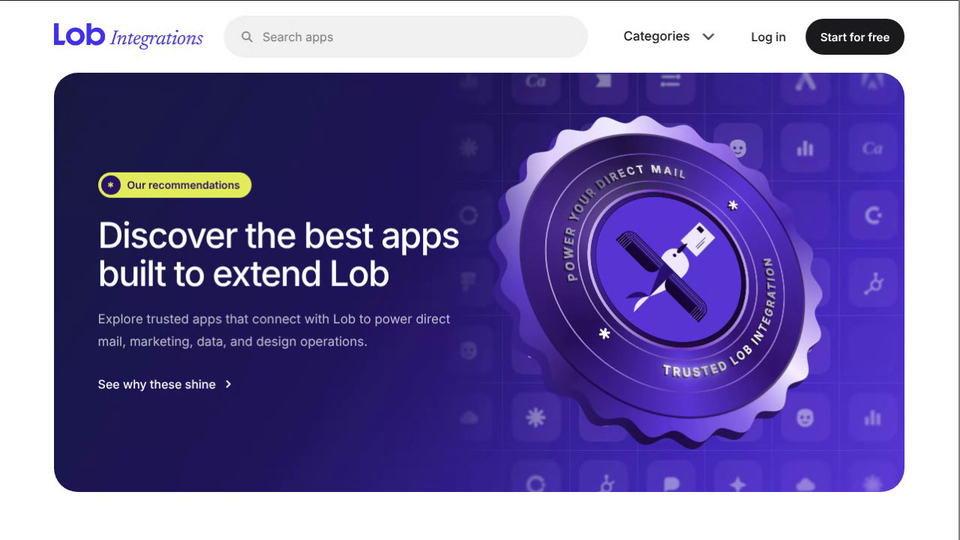
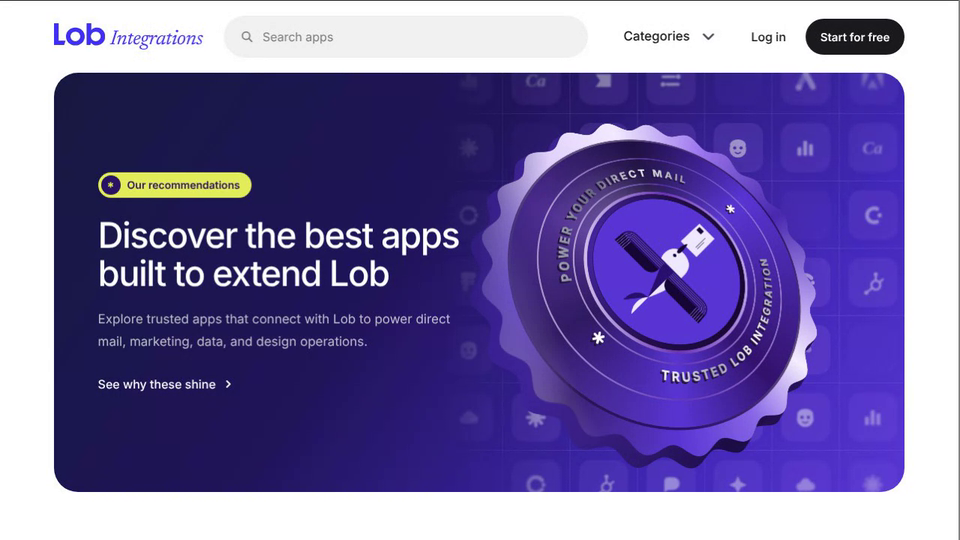
Lob Integrations Hero: single-layer badge with smooth rim, remove the bloom
Claude-Session: https://claude.ai/code/session_01AHeBdw5Dmhovddhvfinq8X

Changed region(s): [[0.5, 0.2074, 0.875, 0.8889]]

diff --git a/lob-integrations-hero/index.html b/lob-integrations-hero/index.html
@@ -97,8 +97,8 @@ body[data-look="colour"] .tile .c{display:block}
 .bshadow{width:min(72cqw,80cqh,460px);aspect-ratio:1;border-radius:50%;transform:translateY(9%) scale(.92);background:radial-gradient(circle,rgba(10,0,40,.55),transparent 68%);filter:blur(10px)}
 .ext{position:absolute;inset:0;clip-path:url(#serr);background:linear-gradient(160deg,#5a37d4,#1d0e45 60%,#3a1c7a)}
 .side{position:absolute;inset:0}
-/* no 3D scene: every layer is a flat element carrying the same tilt (--pr), shifted a little along the tilt by its depth (--z), which gives the thickness and the raised look without the browser sorting 3D planes */
-.badge .ext,.badge .face,.badge .side>svg{transform:translate(calc(var(--sx,0)*var(--z,0)*1px),calc(var(--sy,0)*var(--z,0)*1px)) var(--pr,none)}
+/* one flat element carries the whole tilt; thickness and raised lettering are copies of the artwork shifted by their depth (--z) along the tilt inside it, so the browser only ever composites a single layer */
+.badge .side>svg,.rm{transform:translate(calc(var(--lx,0)*var(--z,0)*1px),calc(var(--ly,0)*var(--z,0)*1px))}
 .face{position:absolute;inset:0;clip-path:url(#serr);overflow:hidden;background:#2a1466}
 /* the gradients are painted once and only moved with transforms, so nothing is re-rasterised while the badge turns */
 .sheen{position:absolute;inset:-21%;transform:rotate(var(--a,30deg));
@@ -112,15 +112,12 @@ body[data-look="colour"] .tile .c{display:block}
 @keyframes sweep{0%,35%{transform:translateX(-83.6%)}80%,100%{transform:translateX(25.7%)}}
 .badge svg{position:absolute;inset:0;width:100%;height:100%;overflow:visible}
 /* the extrusion layers of the raised lettering and link are one flat dark colour, the top layer carries the metal */
-.spark{pointer-events:none;animation:tw 3s ease-in-out infinite}
-.spark.b{animation-delay:-1.5s}
-@keyframes tw{0%,100%{opacity:.3}50%{opacity:1}}
 .gl .as path{stroke:var(--side)!important}
 .gl text,.gl circle{fill:var(--side)!important;stroke:none!important}
 .gl .lk path{stroke:var(--side)!important;stroke-opacity:1!important}
 
 
-@media (prefers-reduced-motion:reduce){.spark{animation:none;opacity:.9}.sweep{animation:none;transform:translateX(-30%);opacity:.6}.slot,.tile{transition:none}}
+@media (prefers-reduced-motion:reduce){.sweep{animation:none;transform:translateX(-30%);opacity:.6}.slot,.tile{transition:none}}
 </style>
 </head>
 <body>
@@ -308,15 +305,11 @@ function stack(inner,n,z0,dz,front){
    '<linearGradient id="rim" x1="0" y1="0" x2="1" y2="1"><stop offset="0" stop-color="#faf5ff"/><stop offset=".5" stop-color="#6a35b8"/><stop offset="1" stop-color="#e2d0ff"/></linearGradient></defs>'+
    '<circle cx="200" cy="200" r="141" fill="none" stroke="url(#rim)" stroke-width="1.6" opacity=".8"/><circle cx="200" cy="200" r="106" fill="none" stroke="url(#rim)" stroke-width="1.6" opacity=".8"/>'+
    '<circle cx="200" cy="200" r="94" fill="url(#plate)" stroke="url(#rim)" stroke-width="3.4"/><circle cx="200" cy="200" r="86" fill="none" stroke="#000" stroke-opacity=".35" stroke-width="1.5"/><circle cx="200" cy="200" r="86" fill="#5a37d4"/><g fill="#150836" transform="translate(200 200) scale(.235) translate(-558 -453.5)"><path d="M360 478H555V523C500 523 440 512 360 478Z" fill="#efe9ff"/><path d="M555 392C585 380 640 380 662 420C674 452 660 490 640 506C615 524 585 523 555 523Z" fill="#efe9ff"/><path d="M245 478C275 452 330 448 360 478Z" fill="#efe9ff"/><path d="M265 410C310 405 350 428 357 458L360 476Z" fill="#2a1170"/><path d="M360 478 555 405V478Z" fill="#2a1170"/><path d="M448 187H503V421C468 421 448 400 448 372Z"/><path d="M503 187A52 52 0 0 1 555 239V421H503Z" fill="#2a1170"/><path d="M448 720H503V478C468 478 448 500 448 528Z"/><path d="M503 720A52 52 0 0 0 555 668V478H503Z" fill="#2a1170"/><g fill="none" stroke="#9a80f2" stroke-width="2.2"><path d="M503 197A42 42 0 0 1 545 239V421M503 207A32 32 0 0 1 535 239V421M503 217A22 22 0 0 1 525 239V421M503 227A12 12 0 0 1 515 239V421"/><path d="M503 710A42 42 0 0 0 545 668V478M503 700A32 32 0 0 0 535 668V478M503 690A22 22 0 0 0 525 668V478M503 680A12 12 0 0 0 515 668V478"/><path d="M448 198H503M448 208H503M448 219H503M448 230H503M448 241H503M448 666H503M448 677H503M448 688H503M448 699H503M448 710H503"/></g><g transform="translate(705 450.5) scale(.84) translate(-705 -450.5)"><rect x="705" y="387" width="190" height="127" fill="#efe9ff"/><rect x="750" y="471" width="98" height="3"/><rect x="750" y="483" width="70" height="3"/><rect x="845" y="402" width="32" height="37"/></g><circle cx="621" cy="426" r="9"/><path d="M643 427.500C643 419.500 655 416.500 672 416.500C692 417 711 421.500 722 430C707 433.500 690 436 672 436.500C655 437 643 435.500 643 427.500Z"/></g></svg>';
-  /* soft bloom: blurred copies of the outer words (MAIL, TRUSTED), faded in over a small area and breathing slowly */
-  var bt='font-family="Inter,Arial,sans-serif" font-weight="700" font-size="13" letter-spacing="2.8" fill="#f4edff" text-anchor="middle"';
-  function bloom(id,x,y,href,off,delay){
-    return '<mask id="'+id+'m" maskUnits="userSpaceOnUse" x="0" y="0" width="400" height="400"><circle cx="'+x+'" cy="'+y+'" r="62" fill="url(#bg)"/></mask>'+
-      '<g mask="url(#'+id+'m)"><g filter="url(#bw)" opacity=".95"><text '+bt+'><textPath href="#'+href+'" startOffset="'+off+'">'+(href==='pTop'?'POWER YOUR DIRECT MAIL':'TRUSTED LOB INTEGRATION')+'</textPath></text></g><g filter="url(#bn)" opacity=".9"><text '+bt+'><textPath href="#'+href+'" startOffset="'+off+'">'+(href==='pTop'?'POWER YOUR DIRECT MAIL':'TRUSTED LOB INTEGRATION')+'</textPath></text></g></g>';
-  }
-  var spark='<svg class="spark" viewBox="0 0 400 400" style="--z:9.6" aria-hidden="true"><defs><radialGradient id="bg"><stop offset="0" stop-color="#fff"/><stop offset=".55" stop-color="#fff" stop-opacity=".8"/><stop offset="1" stop-color="#fff" stop-opacity="0"/></radialGradient><filter id="bw" x="-20%" y="-20%" width="140%" height="140%"><feGaussianBlur stdDeviation="8.5"/></filter><filter id="bn" x="-20%" y="-20%" width="140%" height="140%"><feGaussianBlur stdDeviation="2.6"/></filter></defs>'+bloom('ba',289,129,'pTop','25%',0)+'</svg>'+'<svg class="spark b" viewBox="0 0 400 400" style="--z:9.7" aria-hidden="true">'+bloom('bb',112,290,'pCcw','50%',-1.5)+'</svg>';
-  var side='<div class="side"><div class="face"><div class="sheen"></div><div class="disc"><div class="sheen2"></div></div><div class="gloss"></div><div class="sweep"></div></div>'+art+stack(raised,8,3,.7,{vb:'0 0 400 400',defs:defs})+spark+'</div>';
-  var ext='';for(var i=1;i<=12;i++)ext+='<i class="ext" style="--z:-'+(i*2)+'"></i>';
+  var side='<div class="side"><div class="face"><div class="sheen"></div><div class="disc"><div class="sheen2"></div></div><div class="gloss"></div><div class="sweep"></div></div>'+art+stack(raised,18,3,.3,{vb:'0 0 400 400',defs:defs})+'</div>';
+  var rd='';for(var q=0;q<360;q++){var tt=q/360*Math.PI*2,rr=(.468+.014*Math.cos(tt*22))*400;rd+=(q?'L':'M')+(200+rr*Math.cos(tt)).toFixed(1)+' '+(200+rr*Math.sin(tt)).toFixed(1)}rd+='Z';
+  var ext='<svg class="rim" viewBox="0 0 400 400" aria-hidden="true"><defs><linearGradient id="rg" x1="0" y1="0" x2="1" y2="1"><stop offset="0" stop-color="#5a37d4"/><stop offset=".6" stop-color="#1d0e45"/><stop offset="1" stop-color="#3a1c7a"/></linearGradient><path id="rimP" d="'+rd+'" fill="url(#rg)"/></defs>';
+  for(var i=50;i>=1;i--)ext+='<use class="rm" href="#rimP" style="--z:-'+(i*.4).toFixed(1)+'"/>';
+  ext+='</svg>';
   badge.innerHTML=ext+side;
   function conicTex(stops,size){var c=document.createElement('canvas');c.width=c.height=size;var x=c.getContext('2d');if(!x||!x.createConicGradient)return null;var g=x.createConicGradient(-Math.PI/2,size/2,size/2);stops.forEach(function(t){g.addColorStop(t[0],t[1])});x.fillStyle=g;x.fillRect(0,0,size,size);return c.toDataURL('image/png')}
   var faceTex=conicTex([[0,'#f3ecff'],[.10,'#a07af0'],[.22,'#4a2ab0'],[.33,'#b8a0f0'],[.40,'#f6f0ff'],[.48,'#8a68e8'],[.56,'#5a37d4'],[.66,'#2a1466'],[.76,'#6a47e0'],[.88,'#d8c8fa'],[1,'#f3ecff']],768);
@@ -342,10 +335,10 @@ function frame(now){
   /* the badge rests at a fixed angle on the 135 degree diagonal; hovering over the visual tips it, and it eases back on leave */
   var wx=hover?tx:0, wy=hover?ty:0;
   px+=(wx-px)*.07; py+=(wy-py)*.07;
-  var ax=-py*16, by=35+px*24, ra=ax*Math.PI/180, rb=by*Math.PI/180, vx=Math.sin(rb), vy=-Math.cos(rb)*Math.sin(ra), c45=Math.SQRT1_2;
-  /* where one unit of depth lands on screen once the whole badge is turned 45 degrees about its centre */
-  badge.style.setProperty('--sx',(vx*c45+vy*c45).toFixed(4)); badge.style.setProperty('--sy',(-vx*c45+vy*c45).toFixed(4));
-  badge.style.setProperty('--pr','perspective(1300px) rotateZ(-45deg) rotateX('+ax.toFixed(2)+'deg) rotateY('+by.toFixed(2)+'deg)');
+  var ax=-py*16, by=35+px*24, ra=ax*Math.PI/180, rb=by*Math.PI/180;
+  /* where one unit of depth lands inside the tilted badge, so the copies line up along the viewing direction */
+  badge.style.setProperty('--lx',Math.tan(rb).toFixed(4)); badge.style.setProperty('--ly',(-Math.tan(ra)/Math.cos(rb)).toFixed(4));
+  badge.style.transform='perspective(1300px) rotateZ(-45deg) rotateX('+ax.toFixed(2)+'deg) rotateY('+by.toFixed(2)+'deg)';
   badge.style.setProperty('--a',(30+px*60+py*25).toFixed(1)+'deg');
   badge.style.setProperty('--gxn',(px*22).toFixed(1)); badge.style.setProperty('--gyn',(-10+py*18).toFixed(1));
   var ang=(px*60+py*25).toFixed(1);
